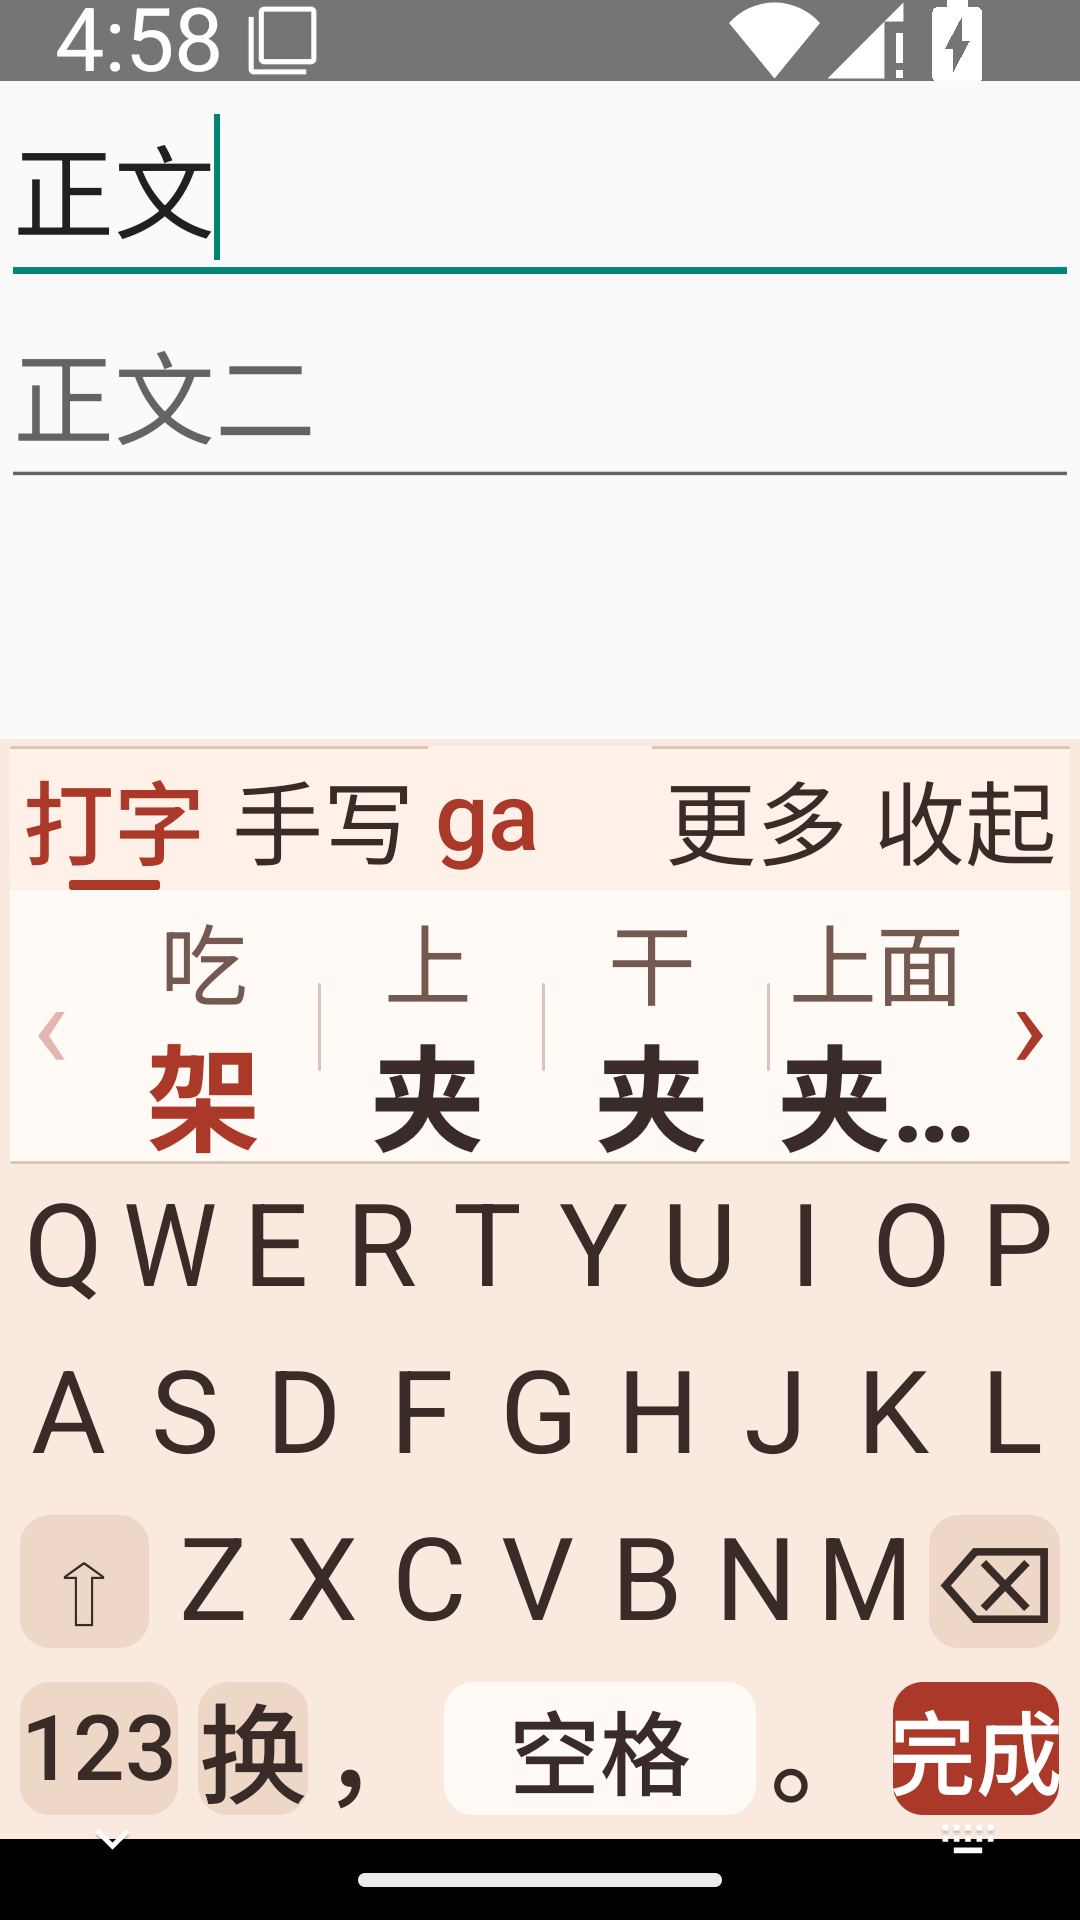
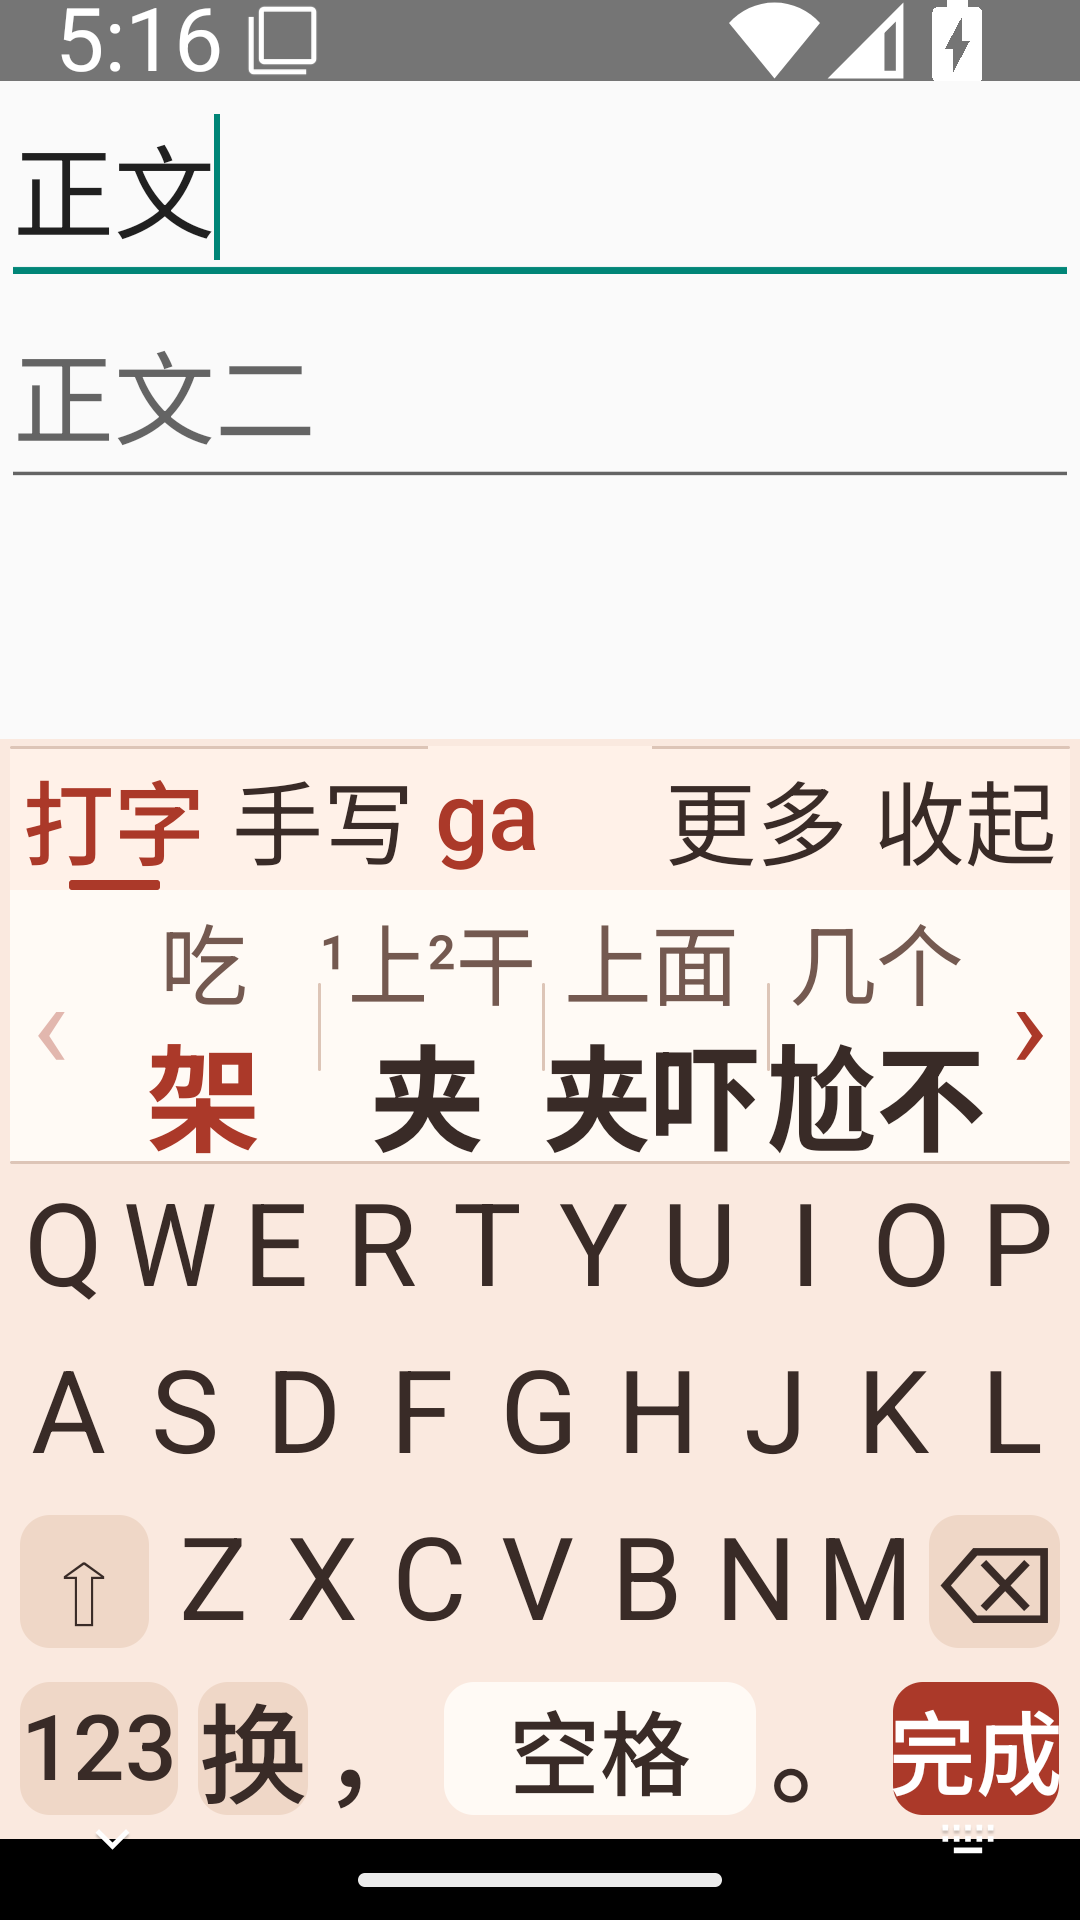
更新Android 15九档字号与两个汉字实际渲染的验收图

diff --git a/qa/typography.md b/qa/typography.md
@@ -18,7 +18,9 @@ Google Android 15、x86_64 云模拟器的物理屏幕为 1080 × 1920 px。在 
 | 160% | 540 | 320 | 46.2 | 77 | 70 | 88 |
 | 200% | 540 | 320 | 47.7 | 96 | 79 | 109 |
 
-「吃」和「架」的字号不同，Android 15 对两者的放大比例也不同。在同一 420 dpi 屏幕上，从 100% 调到 200%，系统给 14 sp 的换算从 36.75 变为 68.25 px，给 20 sp 的换算从 52.50 变为 89.25 px。每个字号的像素取自设备上的 `TypedValue.applyDimension`。[85%](results/api35-033-type-small.png) · [100%](results/api35-033-type-default.png) · [160%](results/api35-033-type-160.png) · [初测 320 dp 窄屏、200%，第四项当时显示「夹…」](results/api35-033-type-largest-dense.png)
+「吃」和「架」的字号不同，Android 15 对两者的放大比例也不同。在同一 420 dpi 屏幕上，从 100% 调到 200%，系统给 14 sp 的换算从 36.75 变为 68.25 px，给 20 sp 的换算从 52.50 变为 89.25 px。每个字号的像素取自设备上的 `TypedValue.applyDimension`。[85%](results/api35-033-type-small.png) · [100%](results/api35-033-type-default.png) · [160%](results/api35-033-type-160.png) · [320 dp 窄屏、200%，完整显示「夹吓」](results/api35-033-type-largest-dense.png)
+
+在 320 dp、200% 字号下，第三格「上面／夹吓」的两个汉字均可见。整行字形高 108 px，最右侧 28% 宽度内「吓」的笔画高 101 px。这个测量取自实际渲染画面。
 
 九组均在外部编辑框逐键输入 `ga`，核对四个候选，点「吃／架」后读回「正文架」。收起再打开键盘后，输入框与正文仍可见。输入 `marmardi` 后在同一编辑框内先改字号、再改显示密度，草稿保留，之后可选择整词「麻麻爹」。该测试宿主自行处理系统配置变更。[改设置后保留的拼写](results/api35-033-type-draft.png)
 
@@ -34,6 +36,6 @@ Android 9 模拟器另有 480 × 800 px、160 dpi 的记录。将系统字号从
 TUJIA_E2E_SUITE=typography TUJIA_E2E_EVIDENCE=build/typography ./device-test/run.sh ime.apk fixture.apk
 ```
 
-Android 15 的独立复测在两个显示档实际点到键盘底行的「完成」，宿主均收到对应编辑动作及「正文架」。手写「三」等待自动收字时改变系统字号，第一个「三」进入正文。随后调整显示密度，手写区上缘由 1302 px 移到 1440 px；待新位置稳定后再写一个「三」，宿主读回「正文麻麻爹三三」，光标位于句末。[新手写区与第一个「三」](results/api35-033-type-hand-before-second.png) · [两次收字后的正文](results/api35-033-type-hand.png) · [完整通过记录](results/api35-033-type-active.log)
+同轮测试在两个显示档实际点到键盘底行的「完成」，宿主均收到对应编辑动作及「正文架」。手写「三」等待自动收字时改变系统字号，第一个「三」进入正文。随后调整显示密度，手写区上缘由 1302 px 移到 1440 px；待新位置稳定后再写一个「三」，宿主读回「正文麻麻爹三三」，光标位于句末。[新手写区与第一个「三」](results/api35-033-type-hand-before-second.png) · [两次收字后的正文](results/api35-033-type-hand.png) · [完整通过记录](results/api35-033-type-matrix.log)
 
-两次 Android 15 工作流分别从各自记录中的源码构建测试 APK。这些测量来自云模拟器，各品牌手机的字体与显示档位还需对应实机复核。
+这轮测试从提交 `078a620` 构建 Android 15 测试 APK。各品牌手机的字体与显示档位还需对应实机复核。[工作流及原始截图](https://github.com/luggroo/bizic-keyboard/actions/runs/45446080562)
